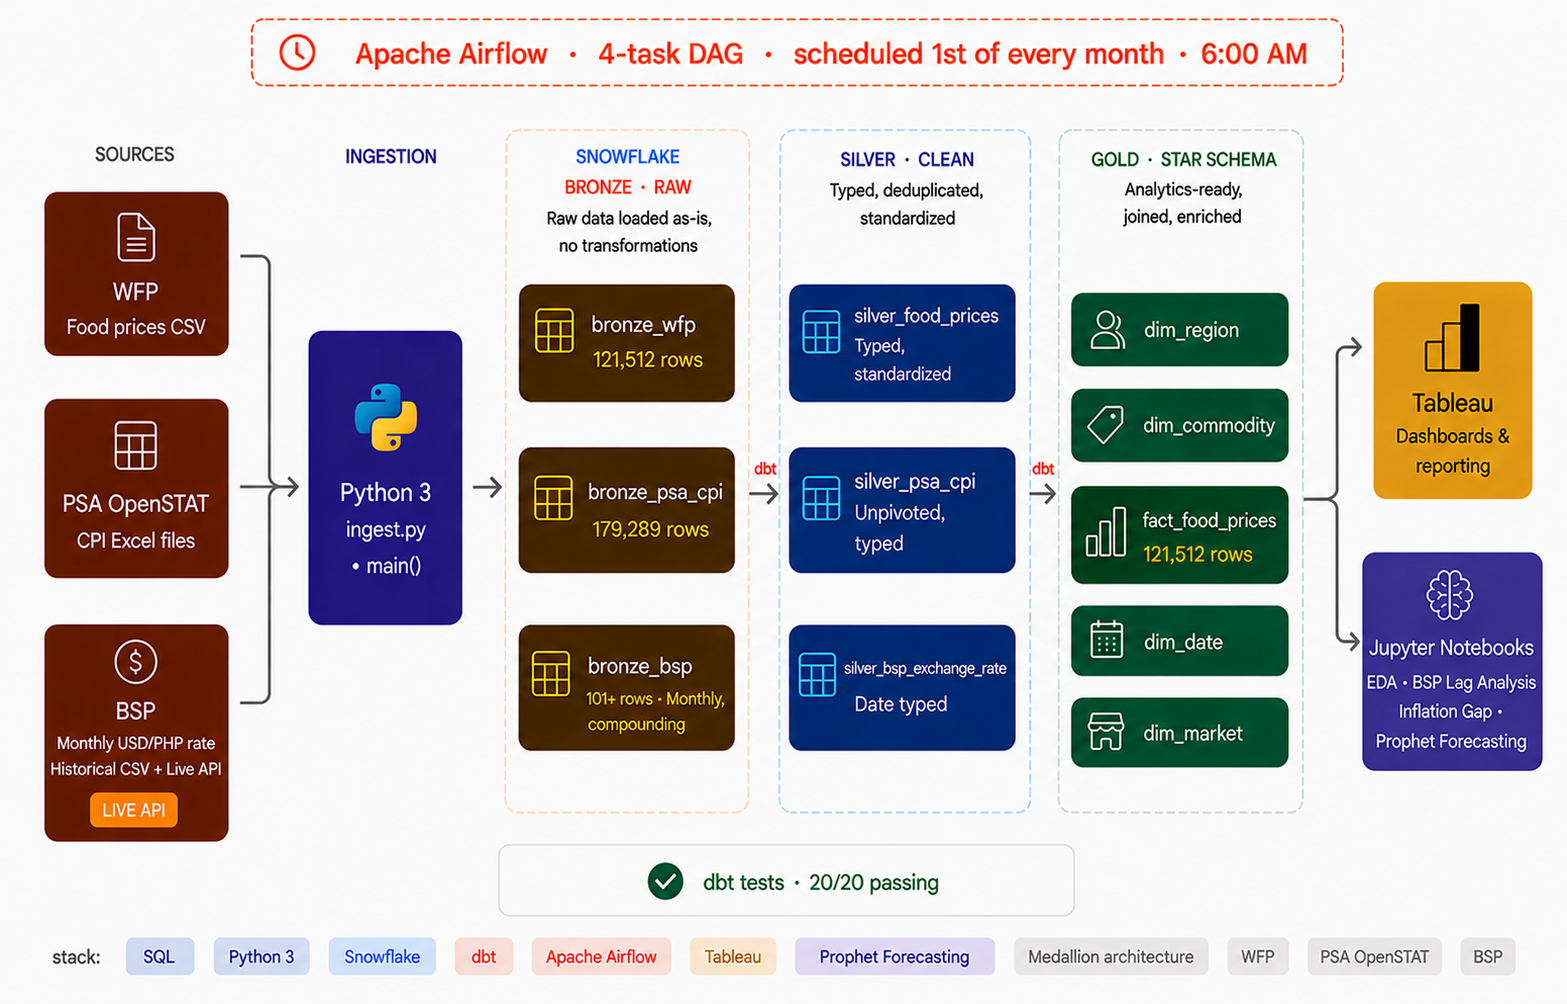
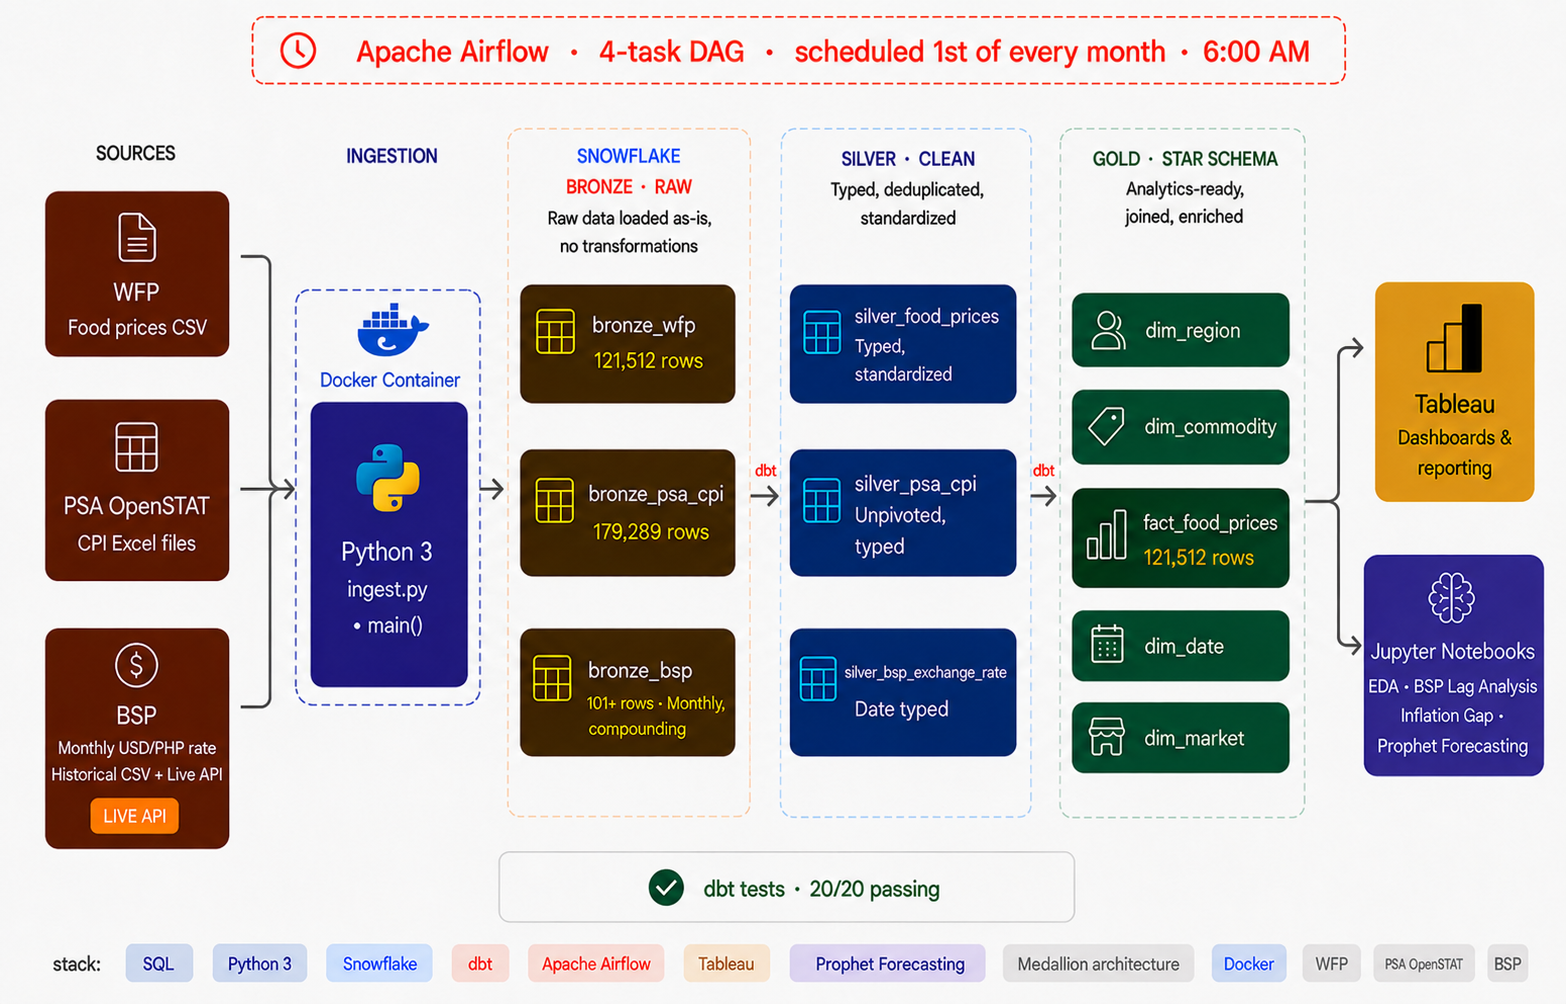
Add Docker to portfolio and update food pipeline architecture

diff --git a/index.html b/index.html
@@ -49,6 +49,7 @@ nav{position:sticky;top:0;z-index:100;background:rgba(247,245,240,0.92);backdrop
 .pill-dbt{background:#FFF3EE;color:#c2380a;border-color:#fdba74}
 .pill-snowflake{background:#EBF8FF;color:#0369a1;border-color:#7dd3fc}
 .pill-mysql{background:#FFFBEB;color:#92400e;border-color:#fcd34d}
+.pill-docker{background:#E8F4FD;color:#1D63ED;border-color:#90CAF9}
 .pill-medallion{background:#F4F4F5;color:#52525b;border-color:#d4d4d8}
 .pill-api{background:#F5F3FF;color:#6d28d9;border-color:#c4b5fd}
 .pill-pymc{background:#FDF4FF;color:#7e22ce;border-color:#e879f9}
@@ -191,6 +192,7 @@ footer{border-top:1px solid var(--border);padding:2.5rem 2rem;text-align:center}
       <span class="pill pill-airflow"><img src="https://cdn.jsdelivr.net/gh/devicons/devicon/icons/apacheairflow/apacheairflow-original.svg" alt=""/> Apache Airflow</span>
       <span class="pill pill-dbt">⬡ dbt</span>
       <span class="pill pill-snowflake">❄ Snowflake</span>
+      <span class="pill pill-docker"><i class="fa-brands fa-docker"></i> Docker</span>
       <span class="pill pill-mysql"><img src="https://cdn.jsdelivr.net/gh/devicons/devicon/icons/mysql/mysql-original.svg" alt=""/> MySQL</span>
       <span class="pill pill-medallion"><i class="fa-solid fa-layer-group"></i> Medallion Architecture</span>
       <span class="pill pill-api"><i class="fa-solid fa-bolt"></i> REST APIs</span>
@@ -219,11 +221,11 @@ footer{border-top:1px solid var(--border);padding:2.5rem 2rem;text-align:center}
       <div class="project-body">
         <div class="project-badge">Cloud Data Engineering · ELT</div>
         <h3>PHILIPPINE FOOD PRICE ANALYTICS PIPELINE</h3>
-        <p>Cloud ELT pipeline built on the Medallion Architecture — ingesting food price data from three real sources (WFP market CSVs, PSA CPI Excel files, and a live BSP exchange rate API) into Snowflake, transforming through dbt-modelled Bronze → Silver → Gold layers with 20 data quality tests, and scheduled monthly via a 4-task Apache Airflow DAG on Astronomer Cloud. The Gold star schema feeds a live Tableau dashboard and two Python notebooks for price trend analysis and forecasting.</p>
+        <p>Cloud ELT pipeline built on the Medallion Architecture — ingesting food price data from three real sources (WFP market CSVs, PSA CPI Excel files, and a live BSP exchange rate API) into Snowflake, transforming through dbt-modelled Bronze → Silver → Gold layers with 20 data quality tests, and scheduled monthly via a 4-task Apache Airflow DAG on Astronomer Cloud. The ingestion pipeline is containerized with Docker for reproducible execution on any machine. The Gold star schema feeds a live Tableau dashboard and two Python notebooks for price trend analysis and forecasting.</p>
         <div class="project-tools">
           <span class="tool-tag">Python</span><span class="tool-tag">Snowflake</span><span class="tool-tag">dbt</span>
           <span class="tool-tag">Apache Airflow</span><span class="tool-tag">Astronomer Cloud</span>
-          <span class="tool-tag">BSP Live API</span><span class="tool-tag">Prophet</span>
+          <span class="tool-tag">BSP Live API</span><span class="tool-tag">Docker</span><span class="tool-tag">Prophet</span>
           <span class="tool-tag">Tableau</span><span class="tool-tag">300K+ rows</span>
         </div>
         <div class="project-links">
@@ -234,7 +236,7 @@ footer{border-top:1px solid var(--border);padding:2.5rem 2rem;text-align:center}
       </div>
       <div class="expand-panel full-width" id="expand-food">
         <dl class="detail-list">
-          <div class="detail-block"><dt>Pipeline design</dt><dd>Three ingestion scripts load from different source formats into Snowflake Bronze as-is — WFP CSV (121,512 rows), PSA CPI multi-sheet Excel (179,289 rows), and a live BSP API call that appends one new exchange rate row per monthly run rather than overwriting. dbt handles all transformations: Silver models standardize column types, deduplicate via ROW_NUMBER(), and unpivot the PSA CPI from wide to long format. Gold builds a star schema — dim_region, dim_commodity, dim_date, dim_market + fact_food_prices — with surrogate keys and a price-to-CPI ratio column as the core analytical metric. The 4-task Airflow DAG (ingest → silver → gold → dbt test) runs on the 1st of every month; if any dbt test fails, the pipeline halts before bad data reaches Gold.</dd></div>
+          <div class="detail-block"><dt>Pipeline design</dt><dd>The ingestion pipeline is containerized with Docker — anyone can run it with two commands using --env-file for credentials. Three ingestion scripts load from different source formats into Snowflake Bronze as-is — WFP CSV (121,512 rows), PSA CPI multi-sheet Excel (179,289 rows), and a live BSP API call that appends one new exchange rate row per monthly run rather than overwriting. dbt handles all transformations: Silver models standardize column types, deduplicate via ROW_NUMBER(), and unpivot the PSA CPI from wide to long format. Gold builds a star schema — dim_region, dim_commodity, dim_date, dim_market + fact_food_prices — with surrogate keys and a price-to-CPI ratio column as the core analytical metric. The 4-task Airflow DAG (ingest → silver → gold → dbt test) runs on the 1st of every month; if any dbt test fails, the pipeline halts before bad data reaches Gold.</dd></div>
           <div class="detail-block"><dt>Data quality</dt><dd>20 dbt tests cover not_null, unique, accepted_values, and referential integrity across all Silver and Gold models. Tests run as the final DAG task — PASS=20, WARN=0, ERROR=0. The Bronze layer is never overwritten, preserving a full raw audit trail for every monthly run.</dd></div>
           <div class="detail-block"><dt>Analytics &amp; findings</dt><dd>BSP lag correlation analysis: peso depreciation leads food price increases by 1–2 months (r=0.29, p=0.018). Prophet forecasting with and without BSP as regressor diverges during depreciation periods — confirming exchange rate adds genuine forecast signal. Key findings: NCR food prices run 60+ index points above PSA CPI. Meat, fish, and eggs surged 80.6% from 2018–2023. Luzon is 19.7% more expensive than Mindanao for the same WFP basket.</dd></div>
         </dl>